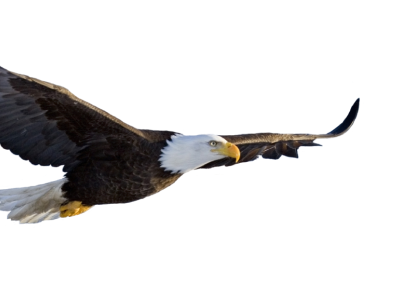
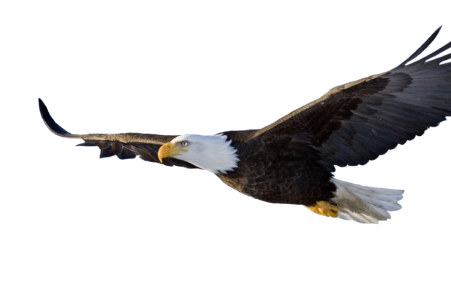
create section

Changed region(s): [[0.0, 0.0903, 1.0, 0.7525]]

diff --git a/#source/modules/week/_vachkazhets.html b/#source/modules/week/_vachkazhets.html
@@ -1,0 +1,62 @@
+<div class="vachkazhets">
+  <div class="container">
+    <div class="vachkazhets__content">
+      <div class="vachkazhets__body">
+        <h3 class="vachkazhets__title week__title">
+          <span class="accent">День 3.</span> Горные цирки и водопады вулкана Вачкажец
+        </h3>
+        <div class="vachkazhets__text">
+          <p class="week__text week__text--brown ">
+            Вачкажец–горный массив и его окрестности, одно из красивейших мест первозданной камчатской природы. Небольшой пеший переход не успеет Вас утомить. А в награду за труд в конце пути открывается великолепный вид на горное озеро в чаше кратера старого потухшего вулкана, обрамленное пиками старых, невысоких гор.
+          </p>
+          <p class="week__text week__text--brown ">
+            Выезд из гостиницы и переезд около 2 часов. Пеший переход около 5 км.в одну сторону к горным циркам вулкана Вачкажец, осмотр водопада. Обед.  Отдых. По прибытию в машину чай с шоколадом! Обратный переход по тому же пути.
+          </p>
+          <p class="week__text week__text--brown ">
+            Продолжительность: 8 часов. Трансфер в гостиницу.
+          </p>
+        </div>
+      </div>
+      <div class="vachkazhets-slider swiper slider slider--size">
+        <div class="swiper-wrapper slider__wrapper">
+          <div class="swiper-slide">
+            <div class="vachkazhets-slider__item">
+              <img class="slider__img" src="img/week/paratunka.png" alt="Паратунка" />
+              <div class="slider__body">
+                <h4 class="slider__title">Паратунка</h4>
+                <span class="slider__subtitle">Какой-то вспомогательный текст, в котором кратко описывается что
+                  на картинке.</span>
+              </div>
+            </div>
+          </div>
+    
+          <div class="swiper-slide">
+            <div class="vachkazhets-slider__item">
+              <img class="slider__img" src="img/week/reserve.png" alt="Памятник “Здесь начинается Россия”" />
+              <div class="slider__body">
+                <h4 class="slider__title">Памятник “Здесь начинается Россия”</h4>
+                <span class="slider__subtitle">Гости Камчатки по традиции делают фото в начале и в конце
+                  путешествий.</span>
+              </div>
+            </div>
+          </div>
+    
+          <div class="swiper-slide">
+            <div class="vachkazhets-slider__item">
+              <img class="slider__img" src="img/week/paratunka-2.png" alt="Паратунка" />
+              <div class="slider__body">
+                <h4 class="slider__title">Паратунка</h4>
+                <span class="slider__subtitle">Какой-то вспомогательный текст, в котором кратко описывается что
+                  на картинке.</span>
+              </div>
+            </div>
+          </div>
+        </div>
+        <div class="slider__navigation slider__navigation--rigth vachkazhets-slider__navigation">
+          <button class="button button-prev vachkazhets-slider-prev"></button>
+          <button class="button button-next vachkazhets-slider-next"></button>
+        </div>
+      </div>
+    </div>
+  </div>
+</div>

diff --git a/#source/scss/modules/_week.scss b/#source/scss/modules/_week.scss
@@ -63,10 +63,10 @@
     height: 50%;
   }
   &::after {
-    position: absolute;
-    bottom:  0;
-    left: 0;
     content: '';
+    position: absolute;
+    bottom: -10px;
+    left: 0;
     background-image: url('../../img/week/cloud-bg.png');
     background-repeat: no-repeat;
     width: 100%;
@@ -110,7 +110,7 @@
     right: 0;
     z-index: -1;
     transform: translateY(-50%);
-    top: 38%;
+    top: 40%;
   }
   &__title {
     @media (min-width: 992px) {
@@ -162,6 +162,73 @@
   }
 
 }
+//================== vachkazhets (day-3) ===============//
+
+.vachkazhets {
+  position: relative;
+  min-height: 100vh;
+  padding: 50px 0;
+  @media (min-width: 768px ){
+    padding: 50px 0 120px 0;
+  }
+/*   @media (min-width: 1200px ){
+    padding: 50px 0 160px 0;
+  } */
+  &::before {
+    content: '';
+    position: absolute;
+    bottom: -10px;
+    left: 0;
+    background-image: url('../../img/week/vachkazhets-bg.jpg');
+    background-position: center;
+    background-repeat: no-repeat;
+    background-size: cover;
+    width: 100%;
+    height: 475px;
+  }
+  &::after {
+    @media (min-width: 768px ){
+      content: '';
+      position: absolute;
+      bottom: 0;
+      right: 0;
+      background-image: url('../../img/week/eagle.png');
+      background-position: center;
+      background-repeat: no-repeat;
+      background-size: cover;
+      width: 530px;
+      height: 299px;
+    }
+    @media (min-width: 1200px ){
+      right: auto;
+      left: 0;
+      transform: matrix(-1, 0, 0, 1, 0, 0);
+    }
+    }
+  &__content {
+    @media (min-width: 1200px) {
+      display: flex;
+      justify-content: space-between;
+      gap: 40px;
+      align-items: center;
+    }
+  }
+
+  &__body {
+    order: 2;
+    flex: 0 0 505px;
+  }
+
+  &__title {
+  }
+
+  &__text {
+    p:not(:last-child) {
+      margin-bottom: 34px;
+    }
+  }
+}
+
 
 //================== avachinsky (day-4) ===============//
 .avachinsky {
@@ -169,6 +236,7 @@
   background: #000000; 
   min-height: 100vh;
   padding: 50px 0 160px 0;
+  //margin-top: -10px;
   @media (min-width: 1200px) {
     padding: 50px 0 240px 0;
   }
@@ -207,10 +275,6 @@
     }
   }
 }
-
-
-/* 
-*/
 
 //================== leaving  (day-8) ===============//
 .leaving {

diff --git a/#source/scss/templates/_sliders.scss b/#source/scss/templates/_sliders.scss
@@ -63,6 +63,7 @@
         transform: matrix(1, 0, 0, -1, 0, 0);
         @media (min-width: 768px) {
           width: calc(300px - 2 * 24px);
+          //width: calc(300px - 2 * 20px);
         } 
       }
     }
@@ -131,27 +132,7 @@
   transform: scale(1); // уменьшить неактивный слайд
   transition: transform 0.2s ease;
 }
-//================== team-slider ======================= //
-.team-slider {
-  position: relative;
-  max-width: 100%;
-  &__item {
-  }
 
-  &__img {
-    margin-bottom: 24px;
-  }
-
-  &__name {
-    font-weight: 600;
-    font-size: 18px;
-    line-height: 133%;
-    color: #000000;
-  }
-  &__navigation {
-    filter: $iconsFilterBlack;
-  }
-}
 
 //================== arrival-slider ======================= //
 .arrival-slider {
@@ -174,7 +155,7 @@
   }
 }
 
-
+//================== second-day-slider  ======================= //
 .second-day-slider {
   margin-top: 50px;
   @media (min-width: 1200px) {
@@ -187,10 +168,31 @@
   &__navigation {
   }
 }
+//================== vachkazhets-slider ======================= //
+.vachkazhets-slider {
+  margin-top: 50px;
+  max-height: 350px;
+  @media (min-width: 1200px) {
+    margin: 0;
+  }
 
+  @media (min-width: 768px) {
 
+  }
+  &__item {
+  }
+
+  &__navigation {
+    filter: $iconsFilterWhite;
+    @media (min-width: 1200px ) {
+      filter: none;
+    }
+  }
+}
+
+//================== avachinsky-slider ======================= //
 .avachinsky-slider {
-  margin: 50px 25px;
+  margin-top: 50px;
   @media (min-width: 1200px) {
     margin: 0;
     position: absolute;
@@ -204,5 +206,27 @@
 
   &__navigation {
     filter: $iconsFilterWhite ;
+  }
+}
+
+//================== team-slider ======================= //
+.team-slider {
+  position: relative;
+  max-width: 100%;
+  &__item {
+  }
+
+  &__img {
+    margin-bottom: 24px;
+  }
+
+  &__name {
+    font-weight: 600;
+    font-size: 18px;
+    line-height: 133%;
+    color: #000000;
+  }
+  &__navigation {
+    filter: $iconsFilterBlack;
   }
 }

diff --git a/#source/js/components/_sliders.js b/#source/js/components/_sliders.js
@@ -1,7 +1,8 @@
 const firstSlider = document.querySelector('.first-slider'),
   arrivalSlider = document.querySelector('.arrival-slider'),
   secondDaySlider = document.querySelector('.second-day-slider'),
-  avachinskySlider = document.querySelector('.avachinsky-slider'), 
+  avachinskySlider = document.querySelector('.avachinsky-slider'),
+  vachkazhetsSlider = document.querySelector('.vachkazhets-slider'),
   teamSlider = document.querySelector('.team-slider');
 
 const First = new Swiper(firstSlider, {
@@ -83,6 +84,31 @@ const secondDay = new Swiper( secondDaySlider, {
   navigation: {
     nextEl: '.second-day-slider-next',
     prevEl: '.second-day-slider-prev',
+  },
+});
+
+
+const Vachkazhets = new Swiper( vachkazhetsSlider, {
+  autoplay: {
+    delay: 3000,
+  },
+  loop: true,
+  slidesPerView: 'auto',
+  spaceBetween: 30,
+  centerSlides: false,
+  breakpoints: {
+    375: {
+      slidesPerView: 1,
+    },
+    768: {
+      slidesPerView: 2.5,
+    },
+  },
+  autoHeight: true,
+  grabCursor: true,
+  navigation: {
+    nextEl: '.vachkazhets-slider-next',
+    prevEl: '.vachkazhets-slider-prev',
   },
 });
 
